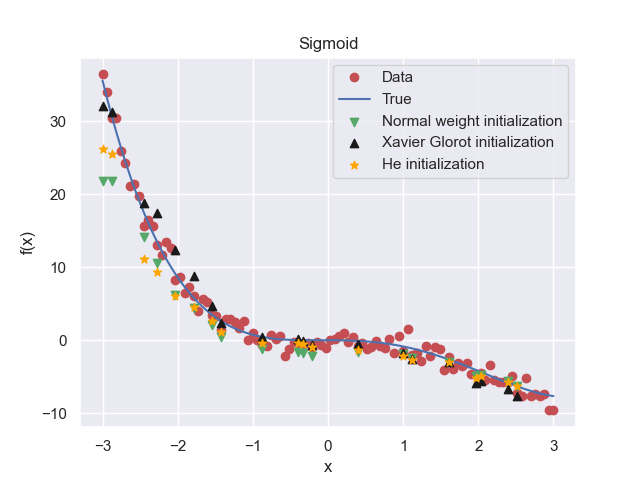
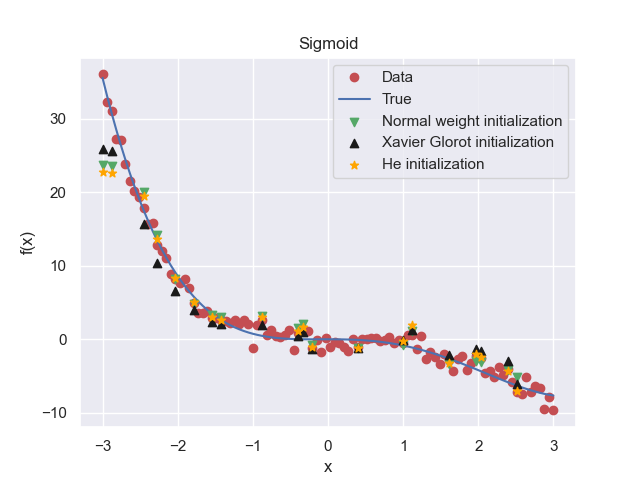
updated weight init defs, plotted new graphs

diff --git a/part_b_c.py b/part_b_c.py
@@ -7,6 +7,7 @@ from sklearn.model_selection import train_test_split
 from sklearn.metrics import mean_squared_error, r2_score
 from sklearn.neural_network import MLPRegressor
 import seaborn as sns
+import pandas as pd
 
 def output_func_compare(X_train, X_test, target_train, eta, lmbd, n_epochs, batches):
     # Compare output functions
@@ -214,6 +215,78 @@ def compare_weight_inits(X_train, X_test, target_train, true_test, eta, lmbd, ba
     plt.show()
     pass
 
+def epoch_minibatch_gridsearch(X_train, X_test, t_train, t_test, layers, eta, lam):
+    #### Grid search for epochs and batches ####
+    n = 10
+    epoch_space = np.linspace(100, 1000, n)
+    batch_space = np.linspace(1, 10, n)
+    train_mse = np.zeros((n, n))
+    test_mse = np.zeros((n, n))
+    train_r2 = np.zeros((n, n))
+    test_r2 = np.zeros((n, n))
+    linear_regression = FFNN(layers, hidden_func=sigmoid, cost_func=cost_func, output_func=identity)
+    scheduler = Adam(eta=eta, rho=0.9, rho2=0.999)
+
+    # This is quite slow, btw
+    for i, epoch in enumerate(epoch_space):
+        for j, batch in enumerate(batch_space):
+            linear_regression.reset_weights()
+            score = linear_regression.fit(X_train, t_train, scheduler, epochs = int(epoch), batches=int(batch), lam=lam)
+            pred_train = linear_regression.predict(X_train)
+            train_mse[i, j] = mean_squared_error(pred_train, t_train)
+            train_r2[i, j] = r2_score(t_train, pred_train)
+            pred_test = linear_regression.predict(X_test)
+            test_mse[i, j] = mean_squared_error(pred_test, t_test)
+            test_r2[i, j] = r2_score(t_test, pred_test)
+
+    train_mse = pd.DataFrame(train_mse, index = epoch_space, columns = batch_space)
+    test_mse = pd.DataFrame(test_mse, index = epoch_space, columns = batch_space)
+    train_r2 = pd.DataFrame(train_r2, index = epoch_space, columns = batch_space)
+    test_r2 = pd.DataFrame(test_r2, index = epoch_space, columns = batch_space)
+
+    fig, ax = plt.subplots(figsize = (8, 8))
+    sns.heatmap(train_mse, annot = True, ax = ax, cmap = "magma" , fmt = ".4f")
+    ax.set_title("Training MSE")
+    # ax.set_ylabel("$\eta$")
+    # ax.set_xlabel("$\lambda$")
+    ax.set_ylabel("Epochs")
+    ax.set_xlabel("Batches")
+    plt.show()
+
+    fig, ax = plt.subplots(figsize = (8, 8))
+    sns.heatmap(test_mse, annot = True, ax = ax, cmap = "magma" , fmt = ".4f" )
+    ax.set_title("Test MSE")
+    # ax.set_ylabel("$\eta$")
+    # ax.set_xlabel("$\lambda$")
+    ax.set_ylabel("Epochs")
+    ax.set_xlabel("Batches")
+    plt.show()
+
+    fig, ax = plt.subplots(figsize = (8, 8))
+    sns.heatmap(train_r2, annot = True, ax = ax, cmap = "magma", fmt = ".4f")
+    ax.set_title("Training R2")
+    # ax.set_ylabel("$\eta$")
+    # ax.set_xlabel("$\lambda$")
+    ax.set_ylabel("Epochs")
+    ax.set_xlabel("Batches")
+    plt.show()
+
+    fig, ax = plt.subplots(figsize = (8, 8))
+    sns.heatmap(test_r2, annot = True, ax = ax, cmap = "magma", fmt = ".4f")
+    ax.set_title("Test R2")
+    # ax.set_ylabel("$\eta$")
+    # ax.set_xlabel("$\lambda$")
+    ax.set_ylabel("Epochs")
+    ax.set_xlabel("Batches")
+    plt.show()
+
+    print(np.min(train_mse))
+    print(np.min(test_mse))
+    print(np.max(train_r2))
+    print(np.max(test_r2))
+
+    print("r squared", train_r2)
+
 rng_seed = 2023
 n = 100
 x = np.linspace(-3, 3, n)
@@ -241,8 +314,8 @@ lmbd_vals = np.logspace(-5, -1, 5)
 # create_eta_lambda_heatmap(X_train, t_train, eta_vals, lmbd_vals, n_epochs, batches) # Create heatmap of MSE for different learning rates and lambdas
 # output_func_compare(X_train, X_test, t_train, eta=0.01, lmbd=0.01, n_epochs=n_epochs, batches=batches) # Compare output functions
 # plot_activation_func_comparison(X_train, X_test, t_train, n_epochs, batches, eta=0.01, lmbd=0.01)# Train with different activation functions
-# compare_model_and_sklearn(X_train, X_test, t_train, true_test, layers, lmbd=0.01, eta=0.01, batches=batches, n_epochs=n_epochs) # Compare our model with SciKit Learn
+compare_model_and_sklearn(X_train, X_test, t_train, true_test, layers, lmbd=0.01, eta=0.01, batches=batches, n_epochs=n_epochs) # Compare our model with SciKit Learn
 
-hidden_func_dict = {'Sigmoid': sigmoid, 'ReLU': RELU, 'Leaky ReLU': LRELU, 'Hyperbolic tangent': tanh}
-for key in hidden_func_dict.keys():
-    compare_weight_inits(X_train, X_test, t_train, true_test, eta=0.01, lmbd=0.01, batches=batches, n_epochs=n_epochs, hidden_activation=hidden_func_dict[key], plot_title=key) # Compare weight initializations
+# hidden_func_dict = {'Sigmoid': sigmoid, 'ReLU': RELU, 'Leaky ReLU': LRELU, 'Hyperbolic tangent': tanh}
+# for key in hidden_func_dict.keys():
+#     compare_weight_inits(X_train, X_test, t_train, true_test, eta=0.01, lmbd=0.01, batches=batches, n_epochs=n_epochs, hidden_activation=hidden_func_dict[key], plot_title=key) # Compare weight initializations

diff --git a/FFNN.py b/FFNN.py
@@ -272,7 +272,7 @@ class FFNN:
                 weight_array[0, :] = np.random.normal(0, xg_std, self.dimensions[i + 1]) * 0.01
 
             elif self.weight_scheme == "he":
-                he_std = np.sqrt(4/(self.dimensions[i] + self.dimensions[i+1]))
+                he_std = np.sqrt(2/(self.dimensions[i]))
                 weight_array = np.random.normal(0, he_std, (self.dimensions[i] + 1, self.dimensions[i + 1]))
                 weight_array[0, :] = np.random.normal(0, he_std, self.dimensions[i + 1]) * 0.01
             
